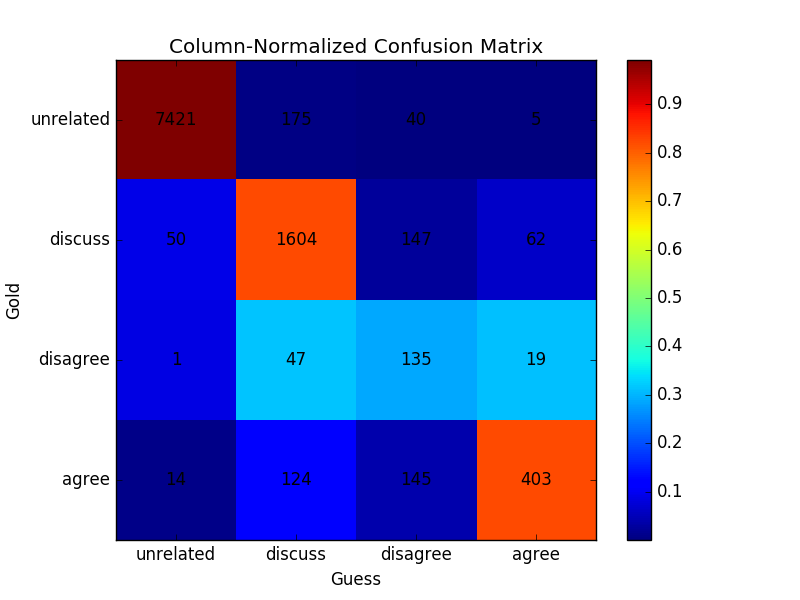
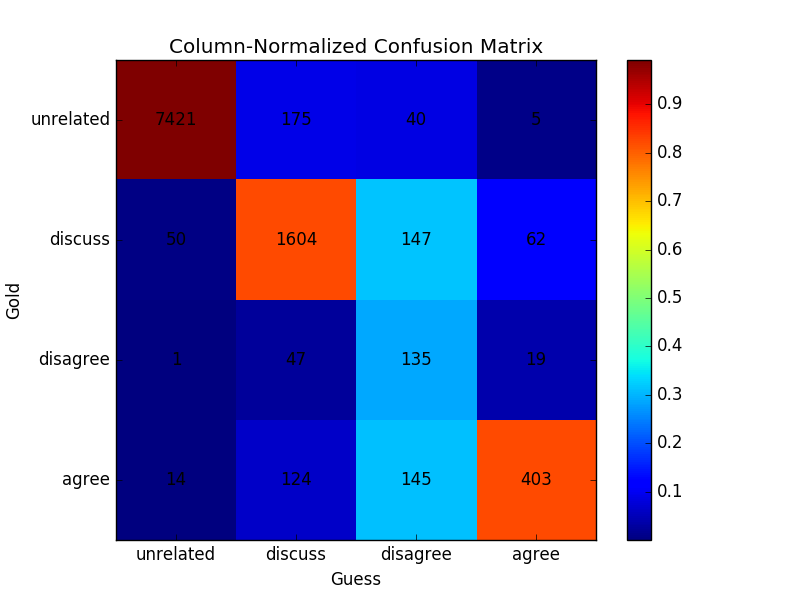
edited col confusion matrix

Changed region(s): [[0.125, 0.09, 0.75, 0.9]]

diff --git a/scripts/confusion_matrix_heatmap.py b/scripts/confusion_matrix_heatmap.py
@@ -7,13 +7,24 @@ conf_arr = np.array([[7421, 175, 40, 5],
             [14, 124, 145, 403]])
 
 norm_conf = []
-for i in conf_arr:
+
+temp_col_arr = []
+
+for i in conf_arr.T:
     a = 0
     tmp_arr = []
     a = sum(i, 0)
     for j in i:
         tmp_arr.append(float(j)/float(a))
-    norm_conf.append(tmp_arr)
+    temp_col_arr.append(tmp_arr)
+    # norm_conf.append(tmp_arr)
+
+
+
+temp_col_arr = np.array(temp_col_arr)
+norm_conf = (temp_col_arr.T).tolist()
+
+
 
 fig = plt.figure()
 plt.clf()
@@ -37,6 +48,6 @@ plt.xticks(range(width), LABELS)
 plt.yticks(range(height), LABELS)
 plt.xlabel('Guess')
 plt.ylabel('Gold')
-plt.title("Row-Normalized Confusion Matrix")
+plt.title("Column-Normalized Confusion Matrix")
 # plt.show()
-plt.savefig('../plots/confusion_matrix_row.png', format='png')
+plt.savefig('../plots/confusion_matrix_col.png', format='png')

diff --git a/scripts/plot_hidden_states.py b/scripts/plot_hidden_states.py
@@ -5,7 +5,7 @@ import pickle
 import csv
 
 NORMALIZE = False
-TYPE = "headlines"
+TYPE = "bodies"
 
 
 PATH = "../pca/"
